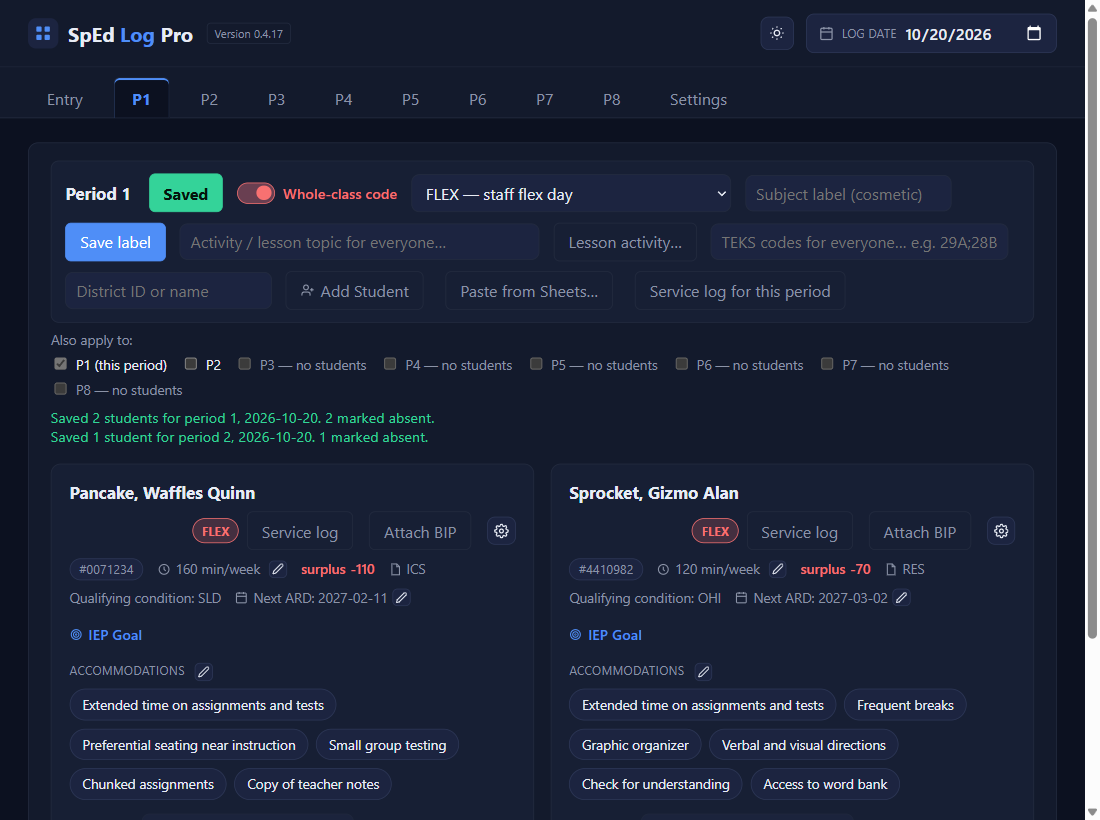
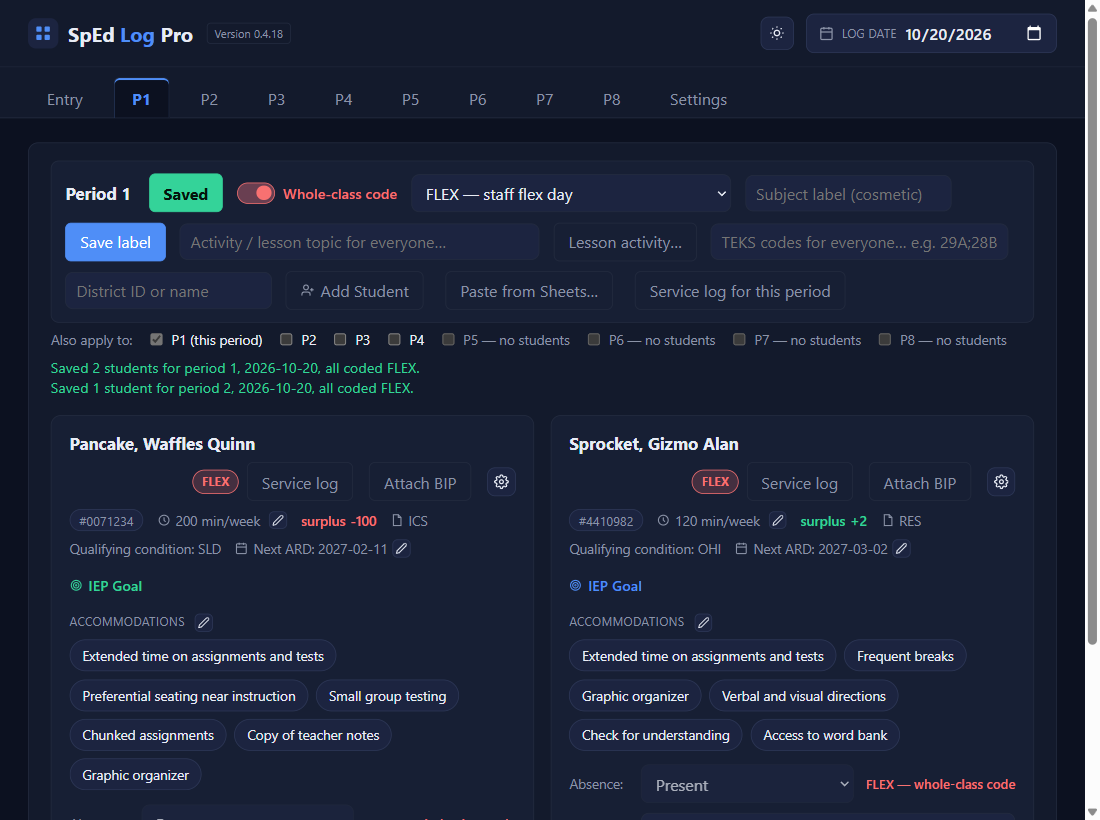
Leveled guides: two new lessons (set up, log the day) with a NEW starburst for 0.4.18 and beyond; whole-class save line names the code; site matches 0.4.18

diff --git a/index.html b/index.html
@@ -163,6 +163,14 @@
     .top nav { display: none; }
   }
   @media (prefers-reduced-motion: reduce) { *, *::before, *::after { animation: none !important; transition: none !important; } .pen { stroke-dashoffset: 0; } }
+
+/* "NEW" starburst beside every link to a lesson added in a newer version */
+.newburst { display:inline-flex; align-items:center; gap:5px; vertical-align:middle; margin-left:6px; white-space:nowrap; }
+.newburst .burst { width:30px; height:30px; flex:none; display:grid; place-items:center; background:#facc15;
+  clip-path: polygon(50.0% 0.0%, 57.6% 11.7%, 69.1% 3.8%, 71.7% 17.6%, 85.4% 14.6%, 82.4% 28.3%, 96.2% 30.9%, 88.3% 42.4%, 100.0% 50.0%, 88.3% 57.6%, 96.2% 69.1%, 82.4% 71.7%, 85.4% 85.4%, 71.7% 82.4%, 69.1% 96.2%, 57.6% 88.3%, 50.0% 100.0%, 42.4% 88.3%, 30.9% 96.2%, 28.3% 82.4%, 14.6% 85.4%, 17.6% 71.7%, 3.8% 69.1%, 11.7% 57.6%, 0.0% 50.0%, 11.7% 42.4%, 3.8% 30.9%, 17.6% 28.3%, 14.6% 14.6%, 28.3% 17.6%, 30.9% 3.8%, 42.4% 11.7%); color:#dc2626; font:900 9px/1 system-ui, sans-serif; letter-spacing:.02em;
+  transform: rotate(-12deg); }
+.newburst small { font-size:11px; font-weight:600; color:#b45309; }
+.tile li > span { display:inline-flex; align-items:center; flex-wrap:wrap; }
 </style>
 </head>
 <body>
@@ -176,7 +184,7 @@
 <div class="hero">
   <div class="hero-inner">
     <div>
-      <div class="eyebrow"><span class="dot"></span>Matches SpEd Log Pro 0.4.17</div>
+      <div class="eyebrow"><span class="dot"></span>Matches SpEd Log Pro 0.4.18</div>
       <h1>Log the day in minutes.<br><span class="grad">Paste the service log in seconds.</span></h1>
       <p class="lede">Short, picture-by-picture lessons for every job in SpEd Log Pro, with the exact spot to click
          circled in red. Start with setup, or jump straight to what you need today.</p>
@@ -216,7 +224,7 @@
   <div class="stat"><div class="big">1 click</div><p>to save a whole class for the day</p></div>
   <div class="stat"><div class="big">1 paste</div><p>per student per week into the real service log</p></div>
   <div class="stat"><div class="big">0 bytes</div><p>leave your computer. No internet, no accounts</p></div>
-  <div class="stat"><div class="big">20</div><p>bite-size lessons, each with real screenshots</p></div>
+  <div class="stat"><div class="big">22</div><p>bite-size lessons, each with real screenshots</p></div>
 </div>
 
 <section class="wrap" id="start">
@@ -251,7 +259,7 @@
       <ul><li><a href="lessons/add-students.html">Add a student</a> <small>3 min</small></li><li><a href="lessons/two-classes.html">A student in two classes</a> <small>5 min</small></li><li><a href="lessons/leaves.html">Leaves or comes back</a> <small>4 min</small></li></ul></div>
     <div class="tile t-purple" href="#"><div class="ic"><svg width="22" height="22" viewBox="0 0 24 24" fill="none" stroke="currentColor" stroke-width="2.2"><circle cx="12" cy="12" r="9"/><circle cx="12" cy="12" r="5"/><circle cx="12" cy="12" r="1"/></svg></div>
       <h3>Goals</h3><p>Track progress without the paperwork.</p>
-      <ul><li><a href="lessons/goal-setup.html">Set up goal tracking</a> <small>6 min</small></li><li><a href="lessons/progress.html">Record progress</a> <small>3 min</small></li><li><a href="lessons/import-lesson.html">Import a lesson</a> <small>4 min</small></li></ul></div>
+      <ul><li><a href="lessons/goal-setup.html">Set up goal tracking</a> <small>6 min</small></li><li><a href="lessons/progress.html">Record progress</a> <small>3 min</small></li><li><a href="lessons/import-lesson.html">Import a lesson</a> <small>4 min</small></li><li><span><a href="lessons/guides-setup.html">Leveled guides: set up</a><span class="newburst" title="New in version 0.4.18"><span class="burst">NEW</span><small>for version 0.4.18 and beyond</small></span></span> <small>4 min</small></li><li><span><a href="lessons/guides-day.html">Leveled guides: log the day</a><span class="newburst" title="New in version 0.4.18"><span class="burst">NEW</span><small>for version 0.4.18 and beyond</small></span></span> <small>3 min</small></li></ul></div>
     <div class="tile t-red" href="#"><div class="ic"><svg width="22" height="22" viewBox="0 0 24 24" fill="none" stroke="currentColor" stroke-width="2.2"><rect x="3" y="4" width="18" height="17" rx="2"/><path d="M16 2v4M8 2v4M3 10h18"/></svg></div>
       <h3>When the IEP changes</h3><p>ARDs, minutes, accommodations.</p>
       <ul><li><a href="lessons/ard.html">Enter an ARD change</a> <small>4 min</small></li><li><a href="lessons/accommodations.html">Edit accommodations</a> <small>3 min</small></li><li><a href="lessons/ard.html">Next ARD date</a> <small>1 min</small></li></ul></div>
@@ -270,7 +278,7 @@
 </div>
 
 <footer><div class="in">
-  <span>© 2026 J. Scott. All rights reserved. · SpEd Log Pro Training, for SpEd Log Pro 0.4.17 · all students shown are made up</span>
+  <span>© 2026 J. Scott. All rights reserved. · SpEd Log Pro Training, for SpEd Log Pro 0.4.18 · all students shown are made up</span>
   <span>Questions? Ask the person who sent you this link.</span>
 </div></footer>
 
@@ -310,6 +318,7 @@
     ['Your roster: make it, download it, drop it in', 'Start here', 'roster csv sheet download folder columns headings', 'lessons/roster.html'], ['A student in two classes', 'Students', 'two classes co-teach suffix period', 'lessons/two-classes.html'],
     ['Student leaves or comes back', 'Students', 'remove restore archive move period', 'lessons/leaves.html'], ['Set up goal tracking', 'Goals', 'goal TEKS mastery checklist rubric', 'lessons/goal-setup.html'],
     ['Record goal progress', 'Goals', 'alert flag progress trials', 'lessons/progress.html'], ['Import a lesson', 'Goals', 'lesson csv TEKS activity', 'lessons/import-lesson.html'],
+    ['Leveled guides: set up', 'Goals', 'leveled guide supports level builder csv word bank', 'lessons/guides-setup.html', 'NEW'], ['Leveled guides: log the day', 'Goals', 'leveled guide level L1 L2 L3 large print dot accommodations', 'lessons/guides-day.html', 'NEW'],
     ['Enter an ARD change', 'When the IEP changes', 'ARD minutes service type paste sheets', 'lessons/ard.html'], ['Edit accommodations', 'When the IEP changes', 'accommodations remove add', 'lessons/accommodations.html'],
     ['Restore a backup', 'Keep it safe', 'restore backup snapshot undo rescue', 'lessons/restore.html'], ['August year-end', 'Keep it safe', 'year clear august new year calendar', 'lessons/august.html'],
   ];
@@ -318,7 +327,7 @@
     const s = v.trim().toLowerCase();
     if (!s) { res.style.display = 'none'; return; }
     const hits = lessons.filter(([n, c, k]) => (n + ' ' + c + ' ' + k).toLowerCase().includes(s)).slice(0, 6);
-    res.innerHTML = hits.length ? hits.map(([n, c, k, url]) => url ? `<a href="${url}">${n}<small>${c}</small></a>` : `<a style="opacity:.6">${n}<small>${c} · coming soon</small></a>`).join('') : '<a>No lesson matches that yet<small></small></a>';
+    res.innerHTML = hits.length ? hits.map(([n, c, k, url, isNew]) => url ? `<a href="${url}"><span>${n}${isNew ? '<span class="newburst" title="New in version 0.4.18"><span class="burst">NEW</span><small>for version 0.4.18 and beyond</small></span>' : ''}</span><small>${c}</small></a>` : `<a style="opacity:.6">${n}<small>${c} · coming soon</small></a>`).join('') : '<a>No lesson matches that yet<small></small></a>';
     res.style.display = 'block';
   }
   q.addEventListener('input', () => search(q.value));

diff --git a/lessons/guides-setup.html b/lessons/guides-setup.html
@@ -1,0 +1,57 @@
+<!doctype html>
+<html lang="en">
+<head>
+<meta charset="utf-8">
+<meta name="viewport" content="width=device-width, initial-scale=1">
+<meta name="robots" content="noindex, nofollow">
+<title>Leveled guides: set up · SpEd Log Pro Training</title>
+<link rel="stylesheet" href="../assets/lesson.css">
+</head>
+<body data-lesson="guidesetup">
+<header class="top">
+  <a class="logo" href="../"><span class="mark"><i></i><i></i><i></i><i></i></span>SpEd <b>Log</b> Pro <span style="font-weight:500;opacity:.7">Training</span></a>
+  <a class="mini-search" href="../" style="text-decoration:none">🔍 Search lessons…</a>
+</header>
+<div class="layout">
+  <aside id="menu"></aside>
+  <main>
+    <div class="hero">
+      <button class="print" onclick="window.print()">🖨 Print this lesson</button>
+      <div class="crumbs">Goals <span class="newburst" title="New in version 0.4.18"><span class="burst">NEW</span><small>for version 0.4.18 and beyond</small></span></div>
+      <h1>Leveled guides: <span>set up</span></h1>
+      <div class="facts"><span class="fact">⏱ About 4 minutes</span><span class="fact">🔁 Once per lesson</span><span class="fact">You need: the lesson's TEKS Alignment and Guide Supports files, in one folder</span></div>
+    </div>
+    <div class="why"><b>Why:</b> your Leveled Guide Builder also writes a Guide Supports file: which supports (word bank, sentence stems, chunking…) it built into each level of the guide. Import it with the lesson, and on a guide day the app shows which of each student's accommodations that guide covers.</div>
+    <div class="step"><div class="num">1</div><div>
+      <h3>Keep both files from the builder in one folder</h3>
+      <p>The builder makes <code>… - TEKS Alignment.csv</code> and <code>… - Guide Supports.csv</code>. Save them together (your Downloads folder is fine). Their names must differ only at the end: if your browser saved <code>… - Guide Supports (1).csv</code>, take the <code> (1)</code> off.</p>
+    </div></div>
+    <div class="step"><div class="num">2</div><div>
+      <h3>Settings → Lesson activities → Import lesson CSV…, and pick the TEKS Alignment file</h3>
+      <p>Pick the <b>TEKS Alignment</b> file, not the Guide Supports file. The app finds the Guide Supports file beside it by itself. Under the activities, <b>Guide supports</b> lists what each level's guide has. Tick your periods and click <b>Import</b> (or <b>Replace "…"</b> for a lesson you already had: its ticks carry over and no saved day changes).</p>
+      <div class="fig" data-pens="397,225,345,20;287,446,232,27"><img class="shot" src="../images/n-gs-1.png" alt="Guide supports in the import preview"></div>
+    </div></div>
+    <div class="step"><div class="num">3</div><div>
+      <h3>Optional: Settings → Leveled guide supports → Supports to suggest</h3>
+      <p>Nothing here has to be set up: the app reads key phrases in each accommodation ("chunks", "reduced length of assignments", "sentence stems") to know which support covers it. Untick a support to stop its suggestions, or tick one of the four <i>(optional)</i> ones if your guides use it (for example fill-in-the-blank notes), then <b>Save supports</b>.</p>
+      <div class="fig" data-pens="789,343,118,22;115,428,74,27"><img class="shot" src="../images/n-gs-2.png" alt="Supports to suggest"></div>
+    </div></div>
+    <div class="step"><div class="num">4</div><div>
+      <h3>Optional: fix a wording the app matches wrong</h3>
+      <p>Only if you see a wrong dot, or a dot you expected is missing. Open <b>Wordings the app matched</b> (or <b>with no match</b>), change that wording's support or mark (<b>No</b> stops it), and click <b>Save</b>. The row says <i>your change</i>; <b>Use built-in match</b> puts it back.</p>
+      <div class="fig" data-pens="842,361,63,25;969,362,62,30"><img class="shot" src="../images/n-gs-3.png" alt="Fix a wording"></div>
+    </div></div>
+
+    <div class="grid3">
+      <div class="box ok"><h4>✓ You'll know it worked</h4><ul><li>The preview lists <b>Guide supports</b> by level before you import.</li><li>The line after importing ends <code>Guide supports: 22 saved.</code></li></ul></div>
+      <div class="box bad"><h4>✕ Avoid these</h4><ul><li><b>Picking the Guide Supports file in Import.</b> Pick the TEKS Alignment file; the supports come with it.</li><li><b>Files in different folders.</b> The app only looks beside the TEKS Alignment file.</li></ul></div>
+      <div class="box msg"><h4>⚠ If you see this</h4><q>The first line must be exactly Lesson,Activity,TEKS,Percent,Expectation — this file's first line is Lesson,Level,Support</q>You picked the Guide Supports file. Import again and pick the TEKS Alignment file.<q>Guide supports: none…</q>The app found no Guide Supports file beside it. Check it's in the same folder and named exactly like the TEKS file, ending <code>- Guide Supports.csv</code>.<q>In "… - Guide Supports.csv": "…" isn't one of the guide support names</q>The builder misspelled a support on that line. Fix the line (or ask the builder to remake the file) and import again.</div>
+    </div>
+    <label class="done-row"><input type="checkbox" id="did"> <span><b>I did this.</b> Ticks this lesson off in the menu (saved in this browser only).</span></label>
+    <div class="navbtns" id="lesson-nav"></div>
+  </main>
+</div>
+<script src="../assets/lessons.js"></script>
+<script src="../assets/lesson.js"></script>
+</body>
+</html>

diff --git a/lessons/guides-day.html b/lessons/guides-day.html
@@ -1,0 +1,57 @@
+<!doctype html>
+<html lang="en">
+<head>
+<meta charset="utf-8">
+<meta name="viewport" content="width=device-width, initial-scale=1">
+<meta name="robots" content="noindex, nofollow">
+<title>Leveled guides: log the day · SpEd Log Pro Training</title>
+<link rel="stylesheet" href="../assets/lesson.css">
+</head>
+<body data-lesson="guideday">
+<header class="top">
+  <a class="logo" href="../"><span class="mark"><i></i><i></i><i></i><i></i></span>SpEd <b>Log</b> Pro <span style="font-weight:500;opacity:.7">Training</span></a>
+  <a class="mini-search" href="../" style="text-decoration:none">🔍 Search lessons…</a>
+</header>
+<div class="layout">
+  <aside id="menu"></aside>
+  <main>
+    <div class="hero">
+      <button class="print" onclick="window.print()">🖨 Print this lesson</button>
+      <div class="crumbs">Goals <span class="newburst" title="New in version 0.4.18"><span class="burst">NEW</span><small>for version 0.4.18 and beyond</small></span></div>
+      <h1>Leveled guides: <span>log the day</span></h1>
+      <div class="facts"><span class="fact">⏱ About 3 minutes</span><span class="fact">🔁 Each day you hand out guides</span><span class="fact">You need: a lesson imported with its Guide Supports file</span></div>
+    </div>
+    <div class="why"><b>Why:</b> tap the guide level you handed each student, and the accommodations that guide covers get a gold dot, so the ones you delivered through the guide don't get missed. Column D of the service log notes which level they had.</div>
+    <div class="step"><div class="num">1</div><div>
+      <h3>Pick the activity with Lesson activity…</h3>
+      <p>Every present student's card gets a <b>Guide given today</b> row for that lesson: <b>None · L1 · L2 · L3 · L2 LP</b>, with nothing selected. Two activities from the same lesson share one row. Absent and coded students get no row.</p>
+      <div class="fig" data-pens="292,322,232,38;792,323,231,38"><img class="shot" src="../images/n-gd-1.png" alt="Guide given today"></div>
+    </div></div>
+    <div class="step"><div class="num">2</div><div>
+      <h3>Tap the level you handed each student</h3>
+      <p>The chips that level's guide covers get a gold dot <b>●</b> (built in) or a gold <b>?</b> (might be: look before you click). A line under the chips names the guide.</p>
+      <div class="fig" data-pens="198,295,25,17;656,294,24,17;585,376,14,16;586,492,14,14"><img class="shot" src="../images/n-gd-2.png" alt="Gold dot and question mark"></div>
+    </div></div>
+    <div class="step"><div class="num">3</div><div>
+      <h3>Click the chips you delivered, then Save</h3>
+      <p><b>A dot never marks a chip.</b> Click each one you delivered, exactly as always, then click <b>Save</b>. Changing only a level makes the button read <b>Unsaved changes</b>. Nothing carries to the next day: every row starts blank.</p>
+    </div></div>
+    <div class="step"><div class="num">4</div><div>
+      <h3>Column D shows the level</h3>
+      <p>In the service log, that day's Accom / Mods ends with the level: <code>… Verbal and visual directions (Lvl 1)</code>. With no chip marked it reads <code>(Lvl 1)</code> by itself, so the log still shows a guide was given.</p>
+      <div class="fig" data-pens="923,434,36,14"><img class="shot" src="../images/n-gd-3.png" alt="The level in column D"></div>
+    </div></div>
+
+    <div class="grid3">
+      <div class="box ok"><h4>✓ You'll know it worked</h4><ul><li>Dots appear as soon as you tap a level.</li><li>Column D ends with <code>(Lvl 1)</code>, <code>(Lvl 3, Lvl 2)</code> for two lessons, or <code>(Lvl 2 LP)</code> for large print.</li></ul></div>
+      <div class="box bad"><h4>✕ Avoid these</h4><ul><li><b>Trusting the dot.</b> It is a reminder, not a mark. Click the chips you really delivered.</li><li><b>Typing the activity.</b> The row only comes from <b>Lesson activity…</b>, from a lesson with its Guide Supports file.</li></ul></div>
+      <div class="box msg"><h4>⚠ If you see this</h4><q>No Guide given today row after picking</q>That lesson was imported without its Guide Supports file. Import it again with the file beside it (lesson: Leveled guides: set up).<q>A dot on the wrong chip</q>Settings → Leveled guide supports → Fix a wording.</div>
+    </div>
+    <label class="done-row"><input type="checkbox" id="did"> <span><b>I did this.</b> Ticks this lesson off in the menu (saved in this browser only).</span></label>
+    <div class="navbtns" id="lesson-nav"></div>
+  </main>
+</div>
+<script src="../assets/lessons.js"></script>
+<script src="../assets/lesson.js"></script>
+</body>
+</html>

diff --git a/assets/lesson.js b/assets/lesson.js
@@ -4,6 +4,8 @@
 (function () {
   const lessons = window.LESSONS || [];
   const here = document.body.dataset.lesson;
+  // The NEW starburst for a lesson added in a newer app version (`newIn` in lessons.js).
+  const badge = (v) => `<span class="newburst" title="New in version ${v}"><span class="burst">NEW</span><small>for version ${v} and beyond</small></span>`;
   const done = (id) => { try { return localStorage.getItem('done:' + id) === '1'; } catch (e) { return false; } };
 
   // ---- the menu ----
@@ -25,6 +27,7 @@
       if (done(l.id)) { tick.className = 'tick ok'; tick.textContent = '✓'; }
       a.appendChild(tick);
       a.appendChild(document.createTextNode(l.title));
+      if (l.newIn) a.insertAdjacentHTML('beforeend', badge(l.newIn));
       if (l.url) a.href = l.url;
       else { a.className = 'soonlink'; const s = document.createElement('span'); s.className = 'soon'; s.textContent = 'soon'; a.appendChild(s); }
       if (l.id === here) a.classList.add('here');
@@ -39,9 +42,9 @@
     const built = (k) => lessons[k] && lessons[k].url;
     let p = i - 1; while (p >= 0 && !built(p)) p -= 1;
     let n = i + 1; while (n < lessons.length && !built(n)) n += 1;
-    const prev = p >= 0 ? `<a href="${lessons[p].url}"><small>← Previous</small><b>${lessons[p].title}</b></a>`
+    const prev = p >= 0 ? `<a href="${lessons[p].url}"><small>← Previous</small><b>${lessons[p].title}</b>${lessons[p].newIn ? badge(lessons[p].newIn) : ''}</a>`
                         : `<a href="../"><small>← Back to</small><b>All lessons</b></a>`;
-    const next = n < lessons.length ? `<a class="next" href="${lessons[n].url}"><small>Next →</small><b>${lessons[n].title}</b></a>`
+    const next = n < lessons.length ? `<a class="next" href="${lessons[n].url}"><small>Next →</small><b>${lessons[n].title}</b>${lessons[n].newIn ? badge(lessons[n].newIn) : ''}</a>`
                                     : `<a class="next" href="../"><small>You've reached the end →</small><b>All lessons</b></a>`;
     nav.innerHTML = prev + next;
   }

diff --git a/lessons/absences.html b/lessons/absences.html
@@ -50,12 +50,12 @@
     </div></div>
     <div class="step"><div class="num">5</div><div>
       <h3>Read the line it gives you</h3>
-      <p>One line per period it saved.</p>
-      <div class="fig" data-pens="245,426,215,28"><img class="shot" src="../images/n-abs-4.png" alt="The save report"></div>
+      <p>One line per period it saved, naming the code.</p>
+      <div class="fig" data-pens="236,378,200,26"><img class="shot" src="../images/n-abs-4.png" alt="The save report"></div>
     </div></div>
 
     <div class="grid3">
-      <div class="box ok"><h4>✓ You'll know it worked</h4><ul><li>The card badges show the code.</li><li>A line per period, like <code>Saved 1 student for period 2, 2026-10-20. 1 marked absent.</code></li><li>Those days drop off the Entry tab's <b>Unresolved dates</b>.</li></ul></div>
+      <div class="box ok"><h4>✓ You'll know it worked</h4><ul><li>The card badges show the code.</li><li>A line per period, like <code>Saved 1 student for period 2, 2026-10-20, all coded FLEX.</code></li><li>Those days drop off the Entry tab's <b>Unresolved dates</b>.</li></ul></div>
       <div class="box bad"><h4>✕ Avoid these</h4><ul><li><b>SAB and FLEX for anything else.</b> They keep the minutes owed, so use them only when it was really you out.</li><li><b>Expecting it to undo itself.</b> To take a whole-class code off, open that period on that date, switch it off, fill in the day, and Save.</li></ul></div>
       <div class="box msg"><h4>⚠ If you see this</h4><q>Coding these students will remove their already-logged sessions …</q>That day was already saved as present. <b>Remove sessions and save</b> replaces it with the code; <b>Cancel</b> leaves it.<q>Choose a whole-class code before saving other periods.</q>Other periods are ticked but no code is picked. Pick one, then Save.</div>
     </div>

diff --git a/assets/lesson.css b/assets/lesson.css
@@ -127,3 +127,15 @@
   table.codes th { background:#efe8da; }
   table.codes mark { background:#ffe58a; padding:0 2px; border-radius:2px; }
   p.notice { margin:34px 0 0; font-size:12.5px; color:var(--muted); text-align:center; }
+
+/* "NEW" starburst beside every link to a lesson added in a newer version */
+.newburst { display:inline-flex; align-items:center; gap:5px; vertical-align:middle; margin-left:6px; white-space:nowrap; }
+.newburst .burst { width:30px; height:30px; flex:none; display:grid; place-items:center; background:#facc15;
+  clip-path: polygon(50.0% 0.0%, 57.6% 11.7%, 69.1% 3.8%, 71.7% 17.6%, 85.4% 14.6%, 82.4% 28.3%, 96.2% 30.9%, 88.3% 42.4%, 100.0% 50.0%, 88.3% 57.6%, 96.2% 69.1%, 82.4% 71.7%, 85.4% 85.4%, 71.7% 82.4%, 69.1% 96.2%, 57.6% 88.3%, 50.0% 100.0%, 42.4% 88.3%, 30.9% 96.2%, 28.3% 82.4%, 14.6% 85.4%, 17.6% 71.7%, 3.8% 69.1%, 11.7% 57.6%, 0.0% 50.0%, 11.7% 42.4%, 3.8% 30.9%, 17.6% 28.3%, 14.6% 14.6%, 28.3% 17.6%, 30.9% 3.8%, 42.4% 11.7%); color:#dc2626; font:900 9px/1 system-ui, sans-serif; letter-spacing:.02em;
+  transform: rotate(-12deg); }
+.newburst small { font-size:11px; font-weight:600; color:#b45309; }
+aside a:has(.newburst) { flex-wrap:wrap; }
+aside a .newburst { flex-basis:100%; margin:2px 0 0 26px; white-space:normal; }
+aside a.here .newburst small { color:#fde68a; }
+.hero .newburst small { color:#fde68a; }
+.navbtns a .newburst { margin-top:4px; }

diff --git a/lessons/import-lesson.html b/lessons/import-lesson.html
@@ -21,7 +21,7 @@
       <h1>Import a <span>lesson</span></h1>
       <div class="facts"><span class="fact">⏱ About 4 minutes</span><span class="fact">🔁 Once per lesson</span><span class="fact">You need: the lesson's TEKS Alignment CSV</span></div>
     </div>
-    <div class="why"><b>Why:</b> your lesson project makes a TEKS Alignment file for each lesson. Import it once, and on the period page you can pick an activity instead of typing the Activity and TEKS. Its codes raise goal alerts exactly as if you'd typed them.</div>
+    <div class="why"><b>Why:</b> your lesson project makes a TEKS Alignment file for each lesson. Import it once, and on the period page you can pick an activity instead of typing the Activity and TEKS. Its codes raise goal alerts exactly as if you'd typed them. Using leveled guides? See <a href="guides-setup.html">Leveled guides: set up</a><span class="newburst" title="New in version 0.4.18"><span class="burst">NEW</span><small>for version 0.4.18 and beyond</small></span>.</div>
     <div class="step"><div class="num">1</div><div>
       <h3>Settings → Lesson activities → Import lesson CSV…</h3>
       <p>Pick the lesson's <code>… - TEKS Alignment.csv</code>. A preview shows each activity (brackets removed from the names) and its codes in your short form (<code>113.41(d)(28)(A)</code> becomes <code>28A</code>).</p>

diff --git a/assets/lessons.js b/assets/lessons.js
@@ -1,4 +1,5 @@
 // Every lesson on the site, in menu order. A lesson with no `url` shows as "coming soon".
+// `newIn` marks a lesson for a newer app version: it gets the NEW starburst wherever it's linked.
 // The menu, the Previous/Next buttons, and the "I did this" ticks all read this one list.
 window.LESSONS = [
   { group: 'Start here', id: 'backup', title: 'Back up to Drive', url: 'backup.html', minutes: 3 },
@@ -19,6 +20,8 @@ window.LESSONS = [
   { group: 'Goals', id: 'goalsetup', title: 'Set up goal tracking', url: 'goal-setup.html', minutes: 6 },
   { group: 'Goals', id: 'progress', title: 'Record goal progress', url: 'progress.html', minutes: 3 },
   { group: 'Goals', id: 'lessons', title: 'Import a lesson', url: 'import-lesson.html', minutes: 4 },
+  { group: 'Goals', id: 'guidesetup', title: 'Leveled guides: set up', url: 'guides-setup.html', minutes: 4, newIn: '0.4.18' },
+  { group: 'Goals', id: 'guideday', title: 'Leveled guides: log the day', url: 'guides-day.html', minutes: 3, newIn: '0.4.18' },
   { group: 'Keep it safe', id: 'restore', title: 'Restore a backup', url: 'restore.html', minutes: 4 },
   { group: 'Keep it safe', id: 'august', title: 'August year-end', url: 'august.html', minutes: 10 },
 ];
